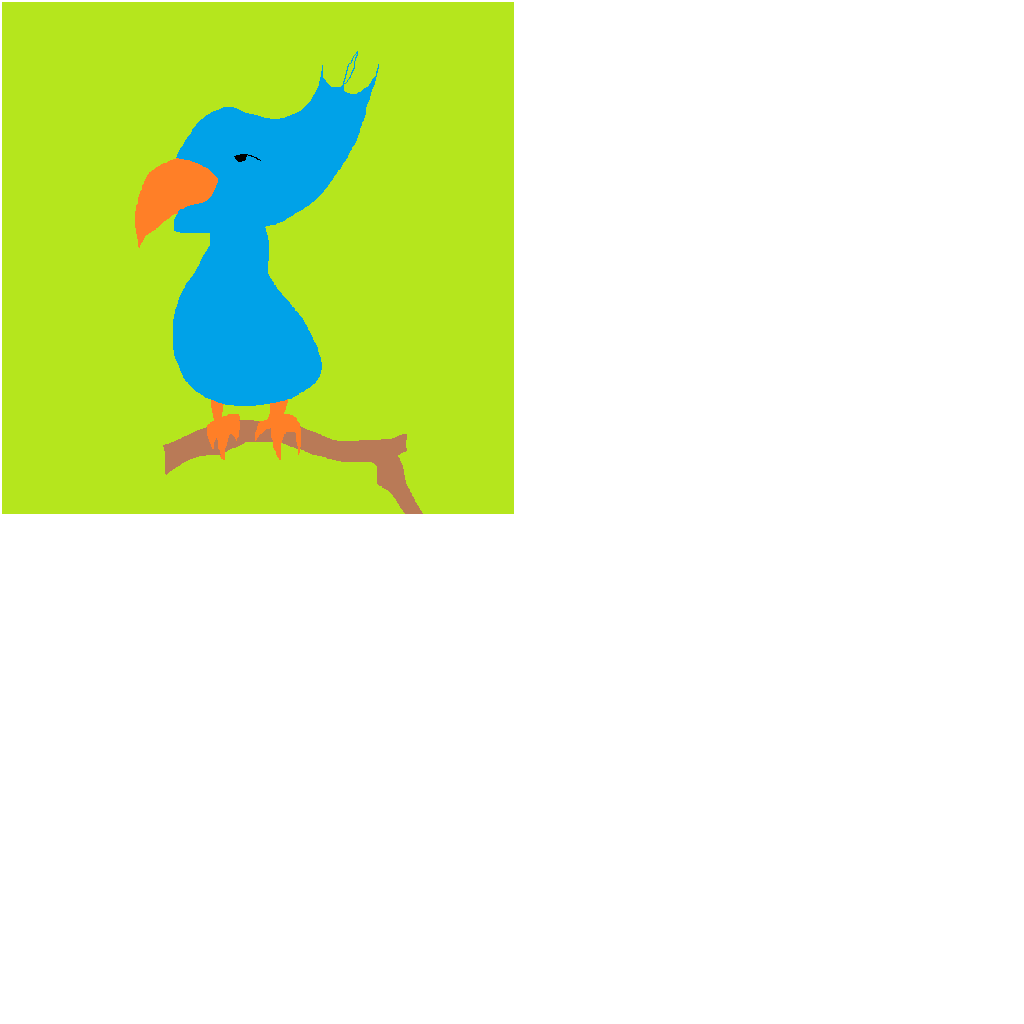
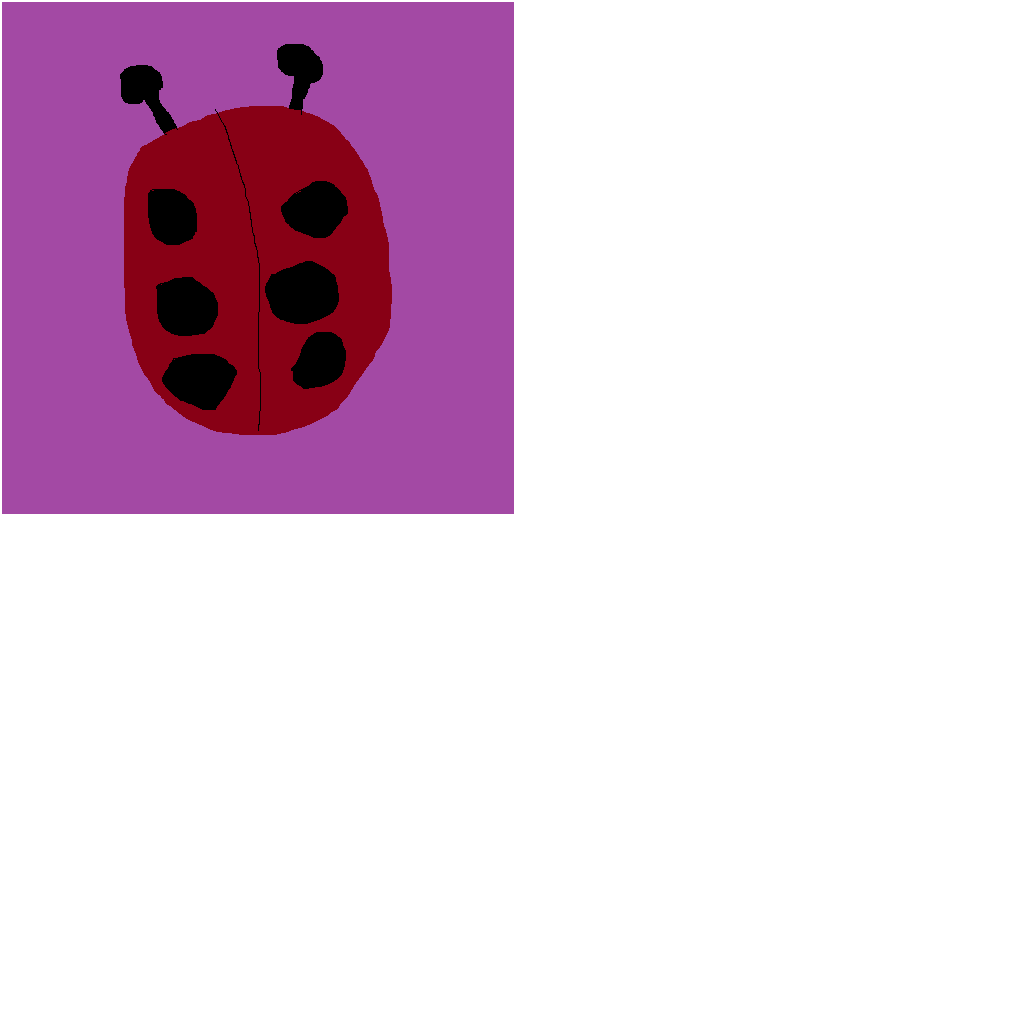
Added drag-and-drop, and participants

Changed region(s): [[0.0, 0.0, 0.5, 0.5]]

diff --git a/core/src/main/java/io/bloogames/deckbuilder/card/Tableau.java b/core/src/main/java/io/bloogames/deckbuilder/card/Tableau.java
@@ -1,30 +1,125 @@
 package io.bloogames.deckbuilder.card;
 
+import com.badlogic.gdx.scenes.scene2d.Actor;
+import com.badlogic.gdx.scenes.scene2d.InputEvent;
+import com.badlogic.gdx.scenes.scene2d.Stage;
+import com.badlogic.gdx.scenes.scene2d.Touchable;
 import com.badlogic.gdx.scenes.scene2d.ui.Table;
-import com.badlogic.gdx.utils.Align;
+import com.badlogic.gdx.scenes.scene2d.utils.DragAndDrop;
 import com.badlogic.gdx.utils.Array;
+import com.badlogic.gdx.utils.Null;
 
 public class Tableau extends Table {
     int numSlots;
     private Array<Slot> slots;
+    private Participant participant;
+    private Stage stage;
+    private boolean dragEnabled;
 
-    public final static float WIDTH = 1920;
+    private DragAndDrop dragAndDrop;
+
+    public final static float WIDTH = 1750;
     public final static float HEIGHT = 350;
     public final static float PADDING = 5;
 
-    public Tableau(int numSlots) {
+    public Tableau(int numSlots, Participant participant, Stage stage) {
+        this(numSlots, participant, stage, true);
+
+    }
+
+    public Tableau(int numSlots, Participant participant, Stage stage, boolean dragEnabled) {
         super();
+        this.participant = participant;
+        this.stage = stage;
         this.numSlots = numSlots;
+        this.dragEnabled = dragEnabled;
         slots = new Array<>(numSlots);
         setSize(WIDTH, HEIGHT);
-        //align(Align.center);
         for (int i = 0; i < numSlots; i++) {
-            slots.add(new Slot());
+            slots.add(new Slot(participant));
             add(slots.get(i)).pad(PADDING);
+        }
+        generateDragAndDrop();
+    }
+
+    public void addBattler(int index, Battler battler) {
+        slots.get(index).setBattler(battler);
+        generateDragAndDrop();
+    }
+
+    public void generateDragAndDrop() {
+        if (!dragEnabled) return;
+
+        if (dragAndDrop == null) {
+            dragAndDrop = new DragAndDrop();
+            dragAndDrop.setKeepWithinStage(false);
+            dragAndDrop.setDragTime(0);
+        }
+        dragAndDrop.clear();
+        for (Slot slot : slots) {
+            dragAndDrop.addTarget(
+                new DragAndDrop.Target(slot) {
+                    @Override
+                    public boolean drag(DragAndDrop.Source source, DragAndDrop.Payload payload, float x, float y, int pointer) {
+                        return true;
+                    }
+
+                    @Override
+                    public void drop(DragAndDrop.Source source, DragAndDrop.Payload payload, float x, float y, int pointer) {
+                        Battler battler = (Battler) payload.getObject();
+                        Slot oldSlot = getSlot(battler);
+
+                        if (slot.hasBattler()) {
+                            Battler currentBattler = slot.getBattler();
+                            slot.setBattler(battler);
+                            oldSlot.setBattler(currentBattler);
+                        }
+                        else {
+                            oldSlot.removeBattler();
+                            slot.setBattler(battler);
+                        }
+
+                        generateDragAndDrop();
+                    }
+                }
+            );
+
+            if (slot.getBattler() != null) {
+                dragAndDrop.addSource(new DragAndDrop.Source(slot.getBattler()) {
+                    @Override
+                    public DragAndDrop.Payload dragStart(InputEvent event, float x, float y, int pointer) {
+                        var payload = new DragAndDrop.Payload();
+                        var battler = slot.getBattler();
+                        stage.addActor(battler);
+                        payload.setObject(battler);
+                        payload.setDragActor(battler);
+                        dragAndDrop.setDragActorPosition(battler.getWidth() / 2, - (battler.getHeight() / 2));
+                        return payload;
+                    }
+
+                    public void dragStop (InputEvent event, float x, float y, int pointer,
+                                          @Null DragAndDrop.Payload payload, @Null DragAndDrop.Target target) {
+                        if (target == null) {
+                            Battler battler = (Battler) (payload.getObject());
+                            slot.setBattler(battler);
+                        }
+                                          }
+                }
+                );
+            }
         }
     }
 
     public Slot getSlot(int index) {
         return slots.get(index);
+    }
+
+    public Slot getSlot(Battler battler) {
+        for (Slot s : slots) {
+            if (s.hasBattler(battler)) {
+                return s;
+            }
+        }
+        return null;
     }
 }

diff --git a/core/src/main/java/io/bloogames/deckbuilder/screen/BattleScreen.java b/core/src/main/java/io/bloogames/deckbuilder/screen/BattleScreen.java
@@ -2,6 +2,7 @@ package io.bloogames.deckbuilder.screen;
 
 import com.badlogic.gdx.Gdx;
 import com.badlogic.gdx.Screen;
+import com.badlogic.gdx.graphics.Color;
 import com.badlogic.gdx.graphics.GL20;
 import com.badlogic.gdx.scenes.scene2d.Stage;
 import io.bloogames.deckbuilder.BaseStats;
@@ -13,6 +14,9 @@ public class BattleScreen implements Screen {
     private Main game;
     private Stage stage;
 
+    private Participant player;
+    private Participant enemy;
+
     private Tableau playerTableau;
     private Tableau enemyTableau;
     public BattleScreen(Main game) {
@@ -22,21 +26,30 @@ public class BattleScreen implements Screen {
     @Override
     public void show() {
         stage = new Stage(game.getViewport());
+        Gdx.input.setInputProcessor(stage);
 
-        playerTableau = new Tableau(5);
-        playerTableau.setPosition(0, 200);
+        player = new Participant(new Color(0.8f, 0.8f, 1f, 1f), 20);
+        enemy = new Participant(new Color(1f, 0.8f, 0.8f, 1f), 20);
+
+        playerTableau = new Tableau(5, player, stage);
+        playerTableau.setPosition((game.getViewport().getWorldWidth() - playerTableau.getWidth()) / 2, 200);
         stage.addActor(playerTableau);
 
-        enemyTableau = new Tableau(5);
-        enemyTableau.setPosition(0, 700);
+        enemyTableau = new Tableau(5, enemy, stage, false);
+        enemyTableau.setPosition((game.getViewport().getWorldWidth() - enemyTableau.getWidth()) / 2, 560);
         stage.addActor(enemyTableau);
 
-        playerTableau.getSlot(0).setBattler(new Battler(
+        playerTableau.addBattler(0, new Battler(
             new BattlerModel(
                 new BaseBattler("battler", "Mrs Battle", new BaseStats(3, 5))
             )));
 
-        enemyTableau.getSlot(3).setBattler(new Battler(
+        playerTableau.addBattler(2, new Battler(
+            new BattlerModel(
+                new BaseBattler("beetle", "Buggo", new BaseStats(7, 8))
+            )));
+
+        enemyTableau.addBattler(3, new Battler(
             new BattlerModel(
                 new BaseBattler("bird", "Da Bird", new BaseStats(6, 2))
             )));

diff --git a/core/src/main/java/io/bloogames/deckbuilder/card/Battler.java b/core/src/main/java/io/bloogames/deckbuilder/card/Battler.java
@@ -3,6 +3,7 @@ package io.bloogames.deckbuilder.card;
 import com.badlogic.gdx.Gdx;
 import com.badlogic.gdx.graphics.Color;
 import com.badlogic.gdx.scenes.scene2d.Group;
+import com.badlogic.gdx.scenes.scene2d.Touchable;
 import com.badlogic.gdx.scenes.scene2d.ui.Image;
 import com.badlogic.gdx.scenes.scene2d.ui.Label;
 import com.badlogic.gdx.utils.Align;
@@ -16,11 +17,12 @@ public class Battler extends Group {
     private Label powerLabel;
     private Label healthLabel;
 
-    private final static float WIDTH = 300;
-    private final static float HEIGHT = 300;
+    public final static float WIDTH = 260;
+    public final static float HEIGHT = 260;
 
     public Battler(BattlerModel model) {
         this.setSize(WIDTH,HEIGHT);
+        this.setOrigin(Align.center);
         this.model = model;
         sprite = new Image(AssetManager.INSTANCE.getSprite(model.getBattlerId()));
         sprite.setSize(WIDTH, HEIGHT);
@@ -31,19 +33,18 @@ public class Battler extends Group {
         powerLabel = new Label(model.getPower() + "",
             new Label.LabelStyle(FontManager.INSTANCE.getBattlerStatFont(), null));
 
-        powerLabel.setAlignment(Align.center);
+        powerLabel.setAlignment(Align.center, Align.center);
         powerLabel.setBounds(WIDTH * 0.0175f, HEIGHT * 0.0175f, WIDTH * 0.19f, HEIGHT * 0.19f);
 
         healthLabel = new Label(model.getHealth() + "",
             new Label.LabelStyle(FontManager.INSTANCE.getBattlerStatFont(), null));
 
-        healthLabel.setAlignment(Align.center);
+        healthLabel.setAlignment(Align.center, Align.center);
         healthLabel.setBounds(WIDTH  - (WIDTH * 0.19f) - (WIDTH * 0.0175f),
             HEIGHT * 0.0175f, WIDTH * 0.19f, HEIGHT * 0.19f);
         this.addActor(sprite);
         this.addActor(frame);
         this.addActor(powerLabel);
         this.addActor(healthLabel);
-
     }
 }

diff --git a/core/src/main/java/io/bloogames/deckbuilder/card/Slot.java b/core/src/main/java/io/bloogames/deckbuilder/card/Slot.java
@@ -1,20 +1,24 @@
 package io.bloogames.deckbuilder.card;
 
 import com.badlogic.gdx.scenes.scene2d.Group;
+import com.badlogic.gdx.scenes.scene2d.Touchable;
 import com.badlogic.gdx.scenes.scene2d.ui.Image;
 import io.bloogames.deckbuilder.manager.AssetManager;
 
 public class Slot extends Group {
-    Image image;
-    Battler battler;
+    private Image image;
+    private Participant participant;
+    private Battler battler;
 
     public static float WIDTH = 350;
     public static float HEIGHT = 350;
 
-    public Slot() {
+    public Slot(Participant participant) {
+        this.participant = participant;
         setSize(WIDTH, HEIGHT);
         image = new Image(AssetManager.INSTANCE.getSprite("slot"));
         image.setSize(WIDTH, HEIGHT);
+        image.setColor(participant.getColour());
         addActor(image);
     }
 
@@ -23,12 +27,31 @@ public class Slot extends Group {
         setBattler(battler);
     }
 
+    public Battler getBattler() {
+        return battler;
+    }
+
     public void setBattler(Battler battler) {
-        if (battler != null) {
-            removeActor(battler);
+        if (hasBattler()) {
+            battler.remove();
         }
         this.battler = battler;
         addActor(battler);
         battler.setPosition(getWidth() / 2 - battler.getWidth() / 2, getHeight() / 2 - battler.getHeight() / 2);
+    }
+
+    public void removeBattler() {
+        if (hasBattler()) {
+            battler.remove();
+            this.battler = null;
+        }
+    }
+
+    public boolean hasBattler() {
+        return battler != null;
+    }
+
+    public boolean hasBattler(Battler other) {
+        return battler == other;
     }
 }

diff --git a/core/src/main/java/io/bloogames/deckbuilder/manager/FontManager.java b/core/src/main/java/io/bloogames/deckbuilder/manager/FontManager.java
@@ -18,12 +18,11 @@ public enum FontManager {
             var generator = new FreeTypeFontGenerator(Gdx.files.internal("fonts/arial.ttf"));
             var parameter = new FreeTypeFontGenerator.FreeTypeFontParameter();
             parameter.color = Color.BLACK;
-            parameter.size = 72;
+            parameter.size = 64;
             parameter.minFilter = Texture.TextureFilter.Linear;
             parameter.magFilter = Texture.TextureFilter.Linear;
             battlerStatFont = generator.generateFont(parameter);
             generator.dispose();
-//            battlerStatFont = new BitmapFont();
         }
 
         return battlerStatFont;

diff --git a/lwjgl3/src/main/java/io/bloogames/deckbuilder/lwjgl3/Lwjgl3Launcher.java b/lwjgl3/src/main/java/io/bloogames/deckbuilder/lwjgl3/Lwjgl3Launcher.java
@@ -32,7 +32,7 @@ public class Lwjgl3Launcher {
         //// useful for testing performance, but can also be very stressful to some hardware.
         //// You may also need to configure GPU drivers to fully disable Vsync; this can cause screen tearing.
 
-        configuration.setWindowedMode(1800, 1400);
+        configuration.setWindowedMode(1920, 1080);
         //// You can change these files; they are in lwjgl3/src/main/resources/ .
         //// They can also be loaded from the root of assets/ .
         configuration.setWindowIcon("libgdx128.png", "libgdx64.png", "libgdx32.png", "libgdx16.png");

diff --git a/core/src/main/java/io/bloogames/deckbuilder/card/Participant.java b/core/src/main/java/io/bloogames/deckbuilder/card/Participant.java
@@ -1,0 +1,26 @@
+package io.bloogames.deckbuilder.card;
+
+import com.badlogic.gdx.graphics.Color;
+
+public class Participant {
+    private Color colour;
+    private int maxHealth;
+    private int damage;
+
+    public Participant(Color colour, int maxHealth) {
+        this.colour = colour;
+        this.maxHealth = maxHealth;
+    }
+
+    public Color getColour() {
+        return colour;
+    }
+
+    public int getMaxHealth() {
+        return maxHealth;
+    }
+
+    public int getDamage() {
+        return damage;
+    }
+}
